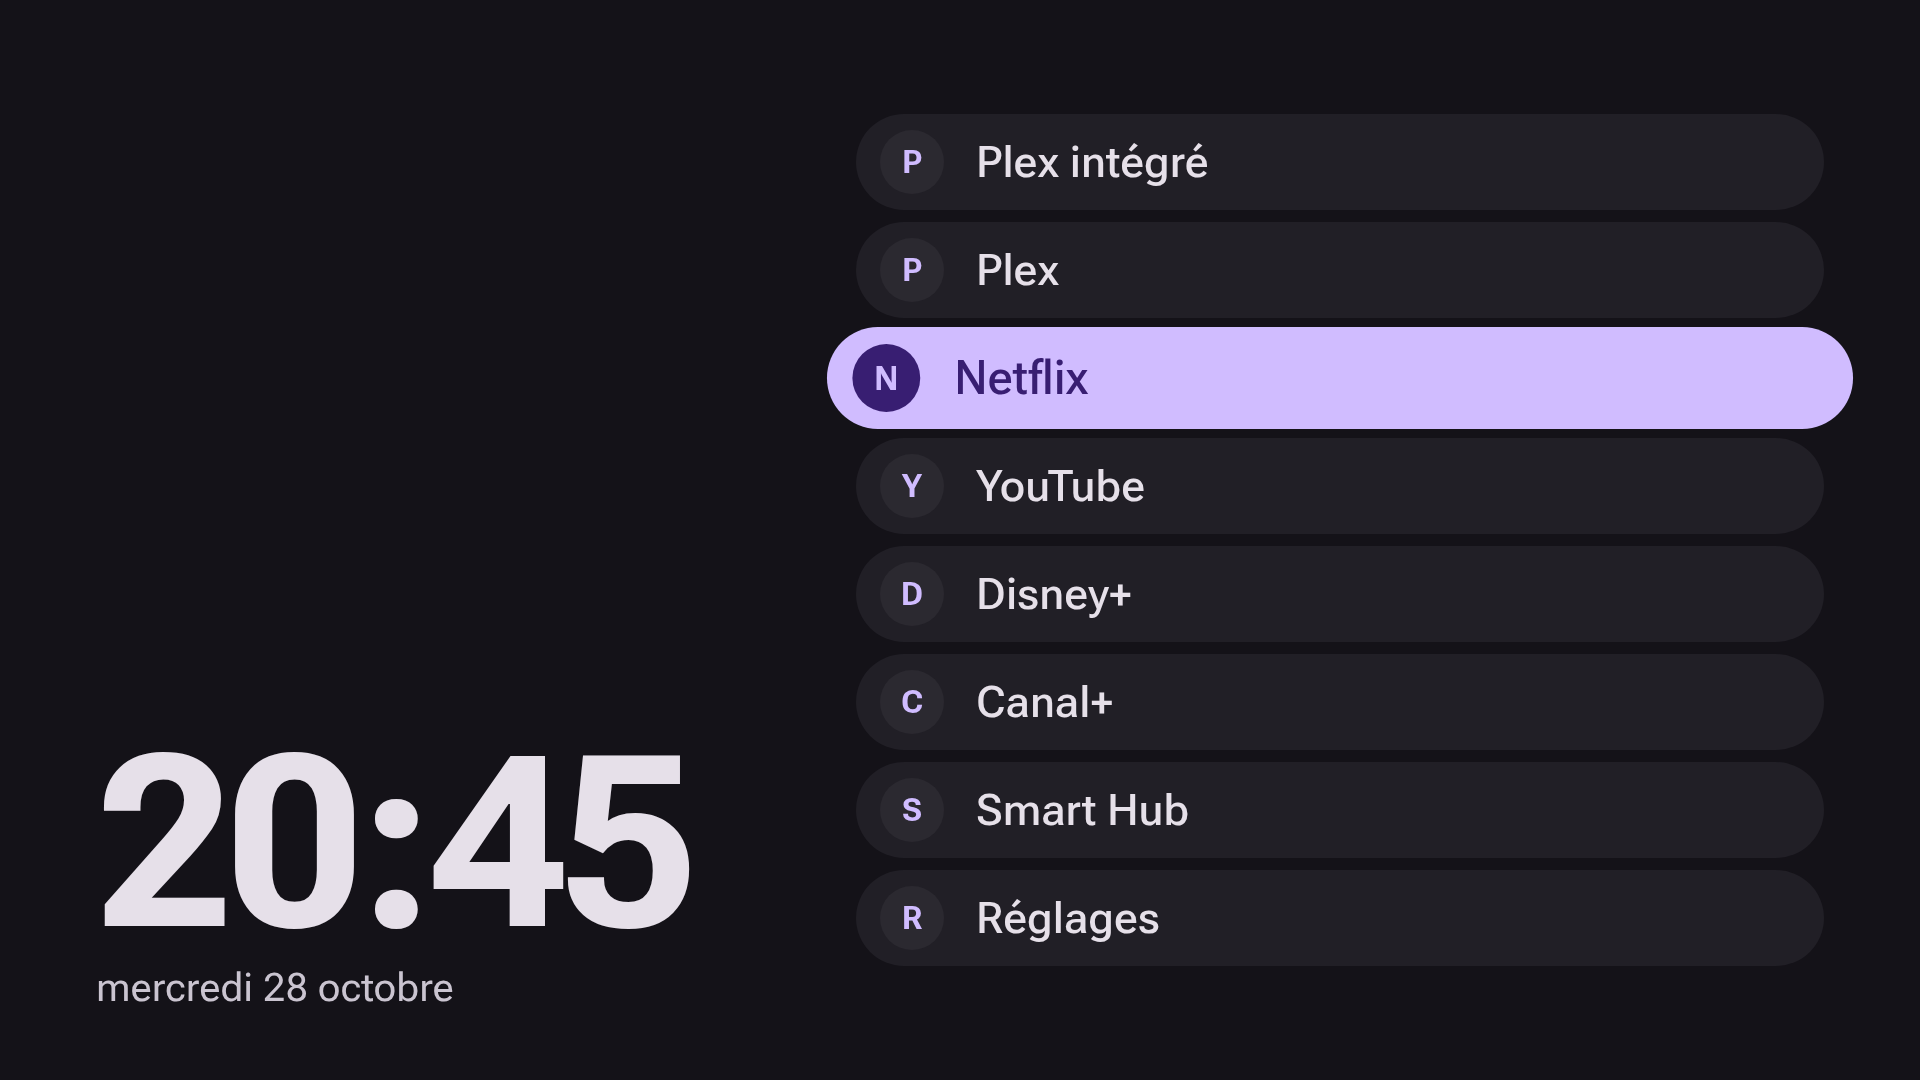
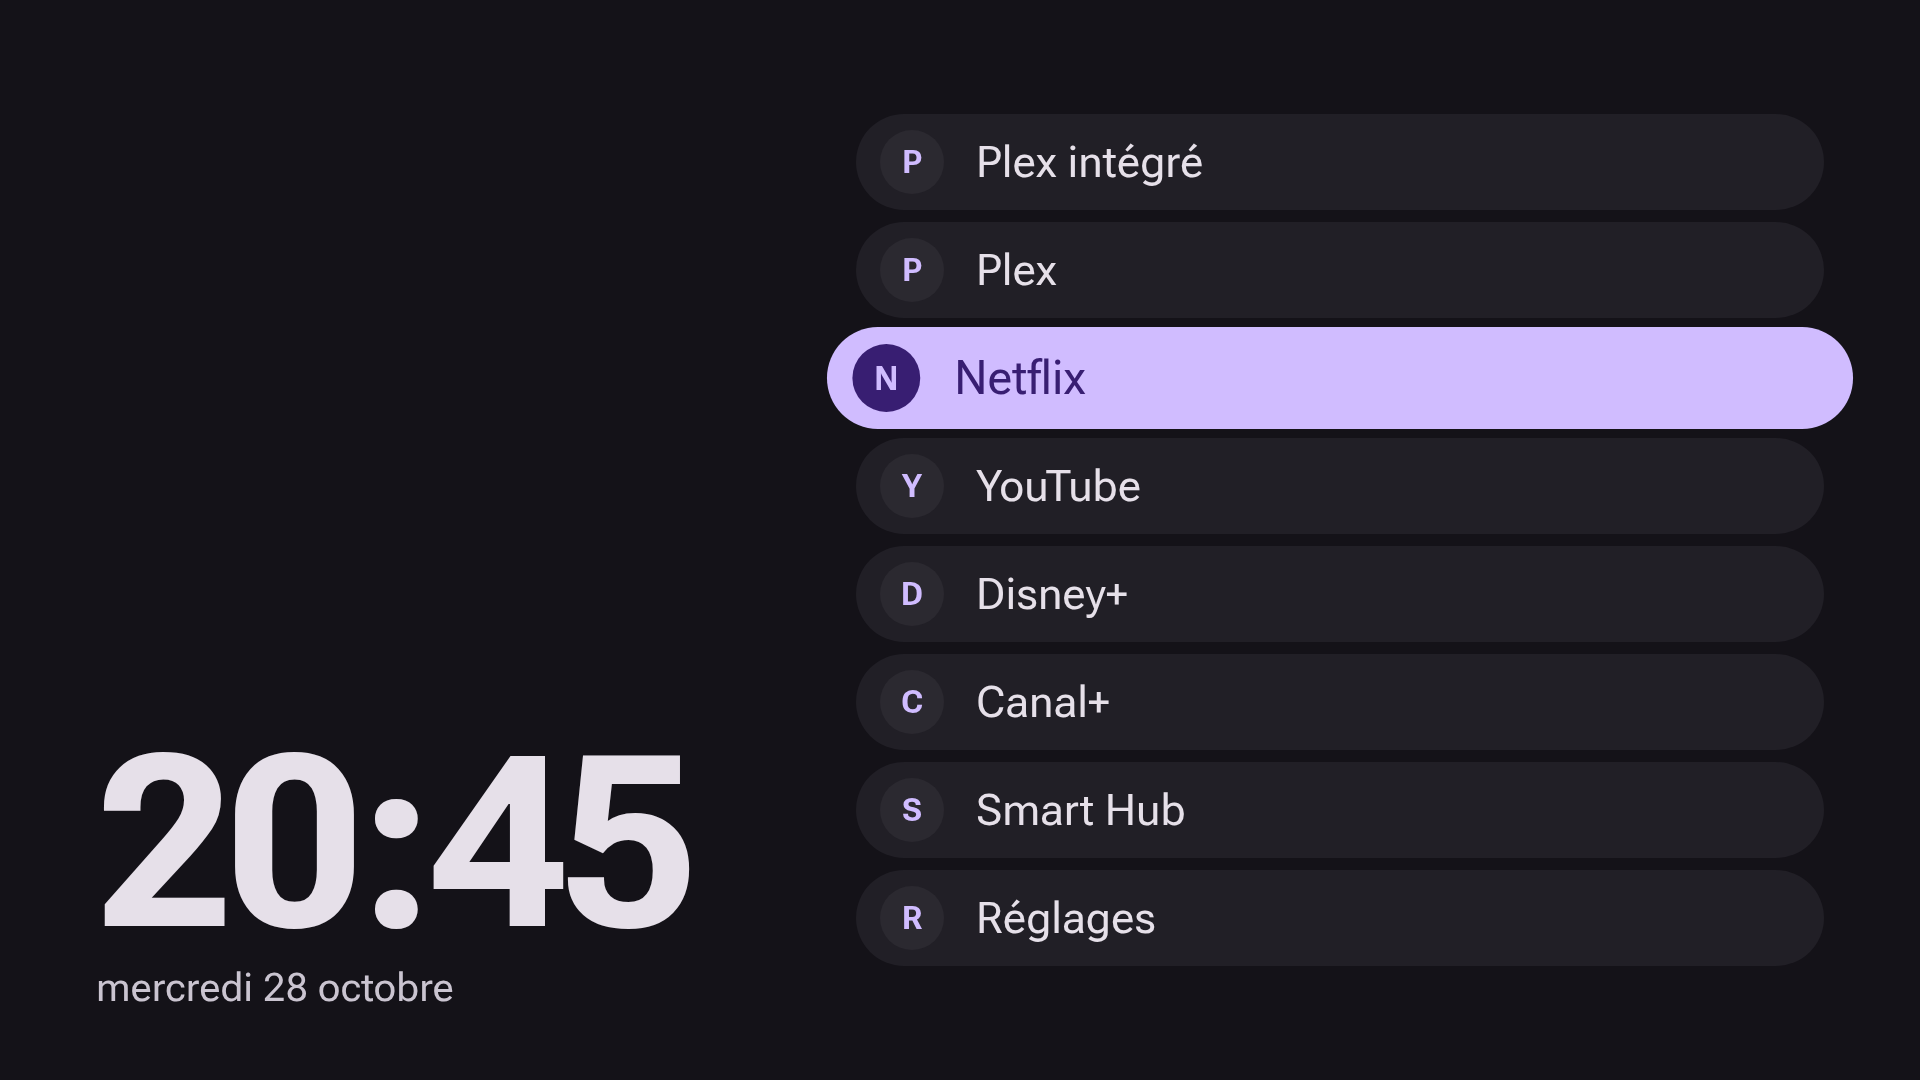
Maquettes : 2 graisses (400/700), OFL.txt de Roboto Flex, captures refaites

diff --git a/packages/launcher/mockups/mockups.css b/packages/launcher/mockups/mockups.css
@@ -15,7 +15,7 @@ a{color:inherit;text-decoration:none}
 .list header{flex:0 0 640px;display:flex;flex-direction:column;justify-content:flex-end;gap:16px}
 .list .t{font-size:240px;line-height:.9}
 .list nav{flex:1;display:flex;flex-direction:column;gap:12px;justify-content:center}
-.list nav a{display:flex;align-items:center;gap:32px;height:96px;padding:0 24px;border-radius:48px;background:var(--s);font-size:44px;font-weight:500}
+.list nav a{display:flex;align-items:center;gap:32px;height:96px;padding:0 24px;border-radius:48px;background:var(--s);font-size:44px;font-weight:400}
 .list .i{width:64px;height:64px;border-radius:32px;font-size:32px}
 
 /* 2. Dock en bas */
@@ -23,7 +23,7 @@ a{color:inherit;text-decoration:none}
 .dock .t{font-size:360px;line-height:.85}
 .dock .d{margin-top:24px}
 .dock nav{position:absolute;left:120px;right:120px;bottom:72px;display:flex;justify-content:space-between;align-items:flex-end}
-.dock nav a{width:176px;height:176px;border-radius:56px;background:var(--s);display:flex;flex-direction:column;align-items:center;justify-content:center;gap:16px;font-size:28px;font-weight:500}
+.dock nav a{width:176px;height:176px;border-radius:56px;background:var(--s);display:flex;flex-direction:column;align-items:center;justify-content:center;gap:16px;font-size:28px;font-weight:400}
 .dock .i{width:72px;height:72px;border-radius:36px;font-size:36px}
 .dock .focus{border-radius:88px}
 

diff --git a/packages/launcher/mockups/COUTS.md b/packages/launcher/mockups/COUTS.md
@@ -2,12 +2,14 @@
 
 Aperçu : `npm run dev` puis http://127.0.0.1:5173/mockups/. Langage commun : surfaces tonales unies (couleur source violette), grands rayons, texte grand, focus = changement de couleur + `transform: scale` + opacité. Aucune image, aucun flou.
 
-Partagé par les 3 : **Police** Roboto Flex (OFL 1.1, licence relue dans google/fonts), variable, sous-ensemble latin + accents français, axe de graisse 400–700 figé, autres axes fixés : **13220 o** (woff2). CSS : 2,3 Ko non minifié, en un seul fichier.
+Partagé par les 3 : **Police** Roboto Flex (OFL 1.1, licence relue dans google/fonts), variable, sous-ensemble latin + accents français, axe de graisse 400–700 (les maquettes n'utilisent que 400 et 700), autres axes fixés : **13220 o** (woff2). CSS : 2,3 Ko non minifié, en un seul fichier.
 
 | Maquette | Police | Fond | DOM | Effets |
 |---|---|---|---|---|
-| list.html — List sobre | Roboto Flex, 400/500/700 | uni `#141218`, 0 o | DOM : 30 éléments (8 lignes × 3) | `transform` + couleur sur le focus ; aucune ombre, aucun flou |
-| dock.html — Dock en bas | idem | uni `#141218`, 0 o | DOM : 29 éléments (8 tuiles × 3) | `transform` + rayon + couleur sur le focus ; aucune ombre, aucun flou |
-| art.html — Art discret | idem | uni `#0c0b0f`, 0 o | DOM : 20 éléments (8 pastilles × 2) | `transform` + opacité (repos 0,55) ; aucune ombre, aucun flou |
+| list.html — List sobre | Roboto Flex, 2 graisses (400, 700) | uni `#141218`, 0 o | DOM : 30 éléments (8 lignes × 3) | `transform` + couleur sur le focus ; aucune ombre, aucun flou |
+| dock.html — Dock en bas | idem (400, 700) | uni `#141218`, 0 o | DOM : 29 éléments (8 tuiles × 3) | `transform` + rayon + couleur sur le focus ; aucune ombre, aucun flou |
+| art.html — Art discret | idem (400, 700) | uni `#0c0b0f`, 0 o | DOM : 20 éléments (8 pastilles × 2) | `transform` + opacité (repos 0,55) ; aucune ombre, aucun flou |
 
 Remarques : les pastilles de l'icône sont des monogrammes texte (pas d'image ; les vraies icônes d'apps coûteront à part). Le focus change de couleur : à la TV, préférer deux calques superposés dont seule l'`opacity` varie si la mesure montre un coût de repeinture. Google Sans Flex n'a pas été retenu : Roboto Flex a une licence OFL confirmée et une forme proche.
+
+Licence : `OFL.txt` (Roboto Flex, OFL 1.1) est livrée à côté de `roboto-flex-latin.woff2`, comme l'OFL l'exige. Graisses : deux seulement (400 corps, 700 titres/monogrammes).
